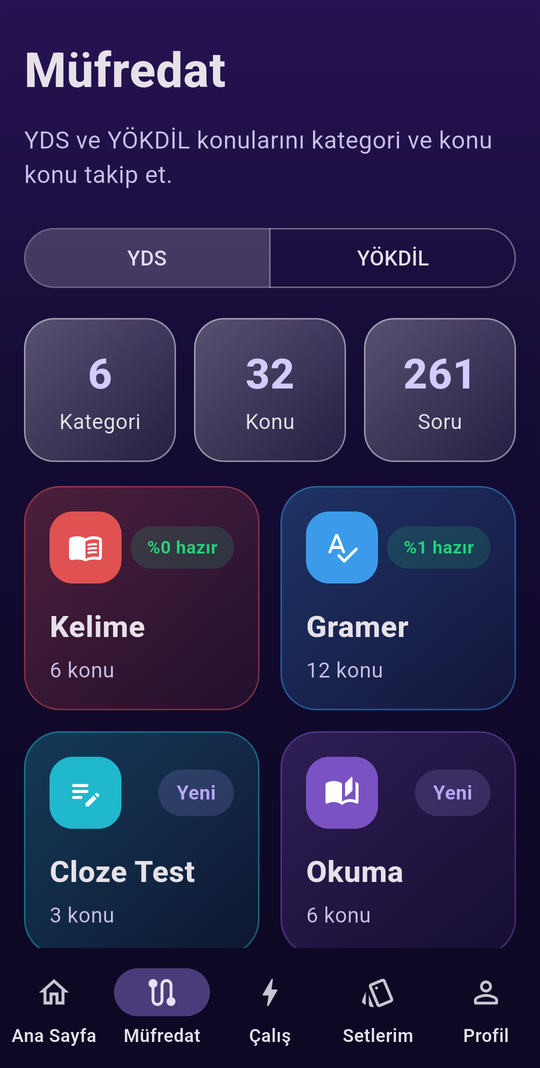
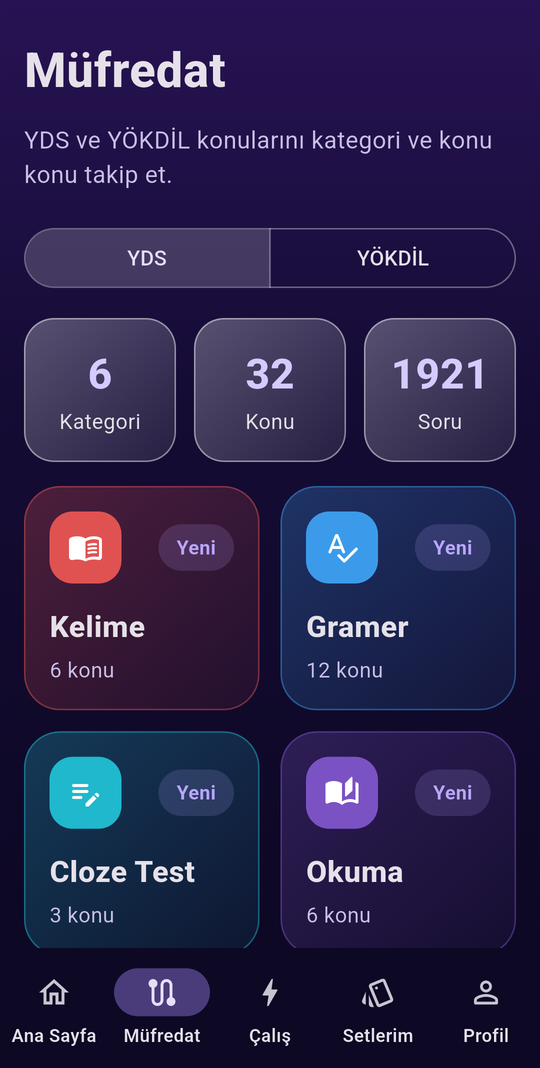
README: güncel ekran görüntüleri (müfredat, setlerim) ve profil ekranı

Changed region(s): [[0.7407, 0.309, 0.8889, 0.3708], [0.237, 0.4944, 0.4444, 0.5562], [0.7111, 0.4944, 0.8889, 0.5562]]

diff --git a/Readme.md b/Readme.md
@@ -52,7 +52,11 @@ Amaç basit: **kelimeyi bir kez gör, yanlış yaptığın şeyi tam unutmak üz
       <b>Deneme sınavı</b><br />
       <sub>Geri sayım, soru haritası ve cevabı geri alma. Sonuç ve kategori analizi sınav bitince.</sub>
     </td>
-    <td width="33%"></td>
+    <td width="33%" align="center" valign="top">
+      <img src="docs/screenshots/profil.png" width="200" alt="Profil" /><br />
+      <b>Profil</b><br />
+      <sub>İstatistikler, sınav tarihi seçimi (tekrar aralıkları ona göre ayarlanır) ve günlük hatırlatma.</sub>
+    </td>
   </tr>
 </table>
 
